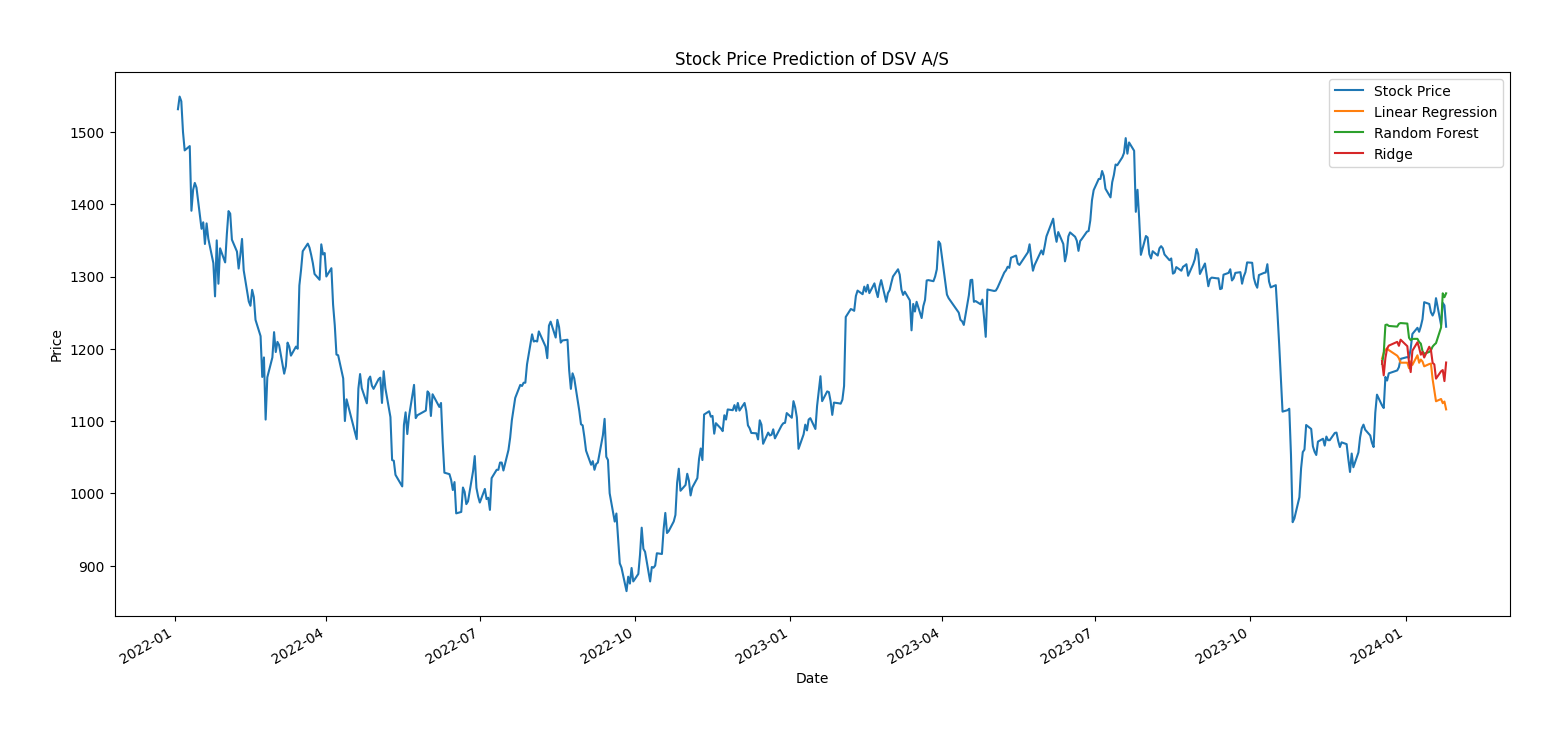
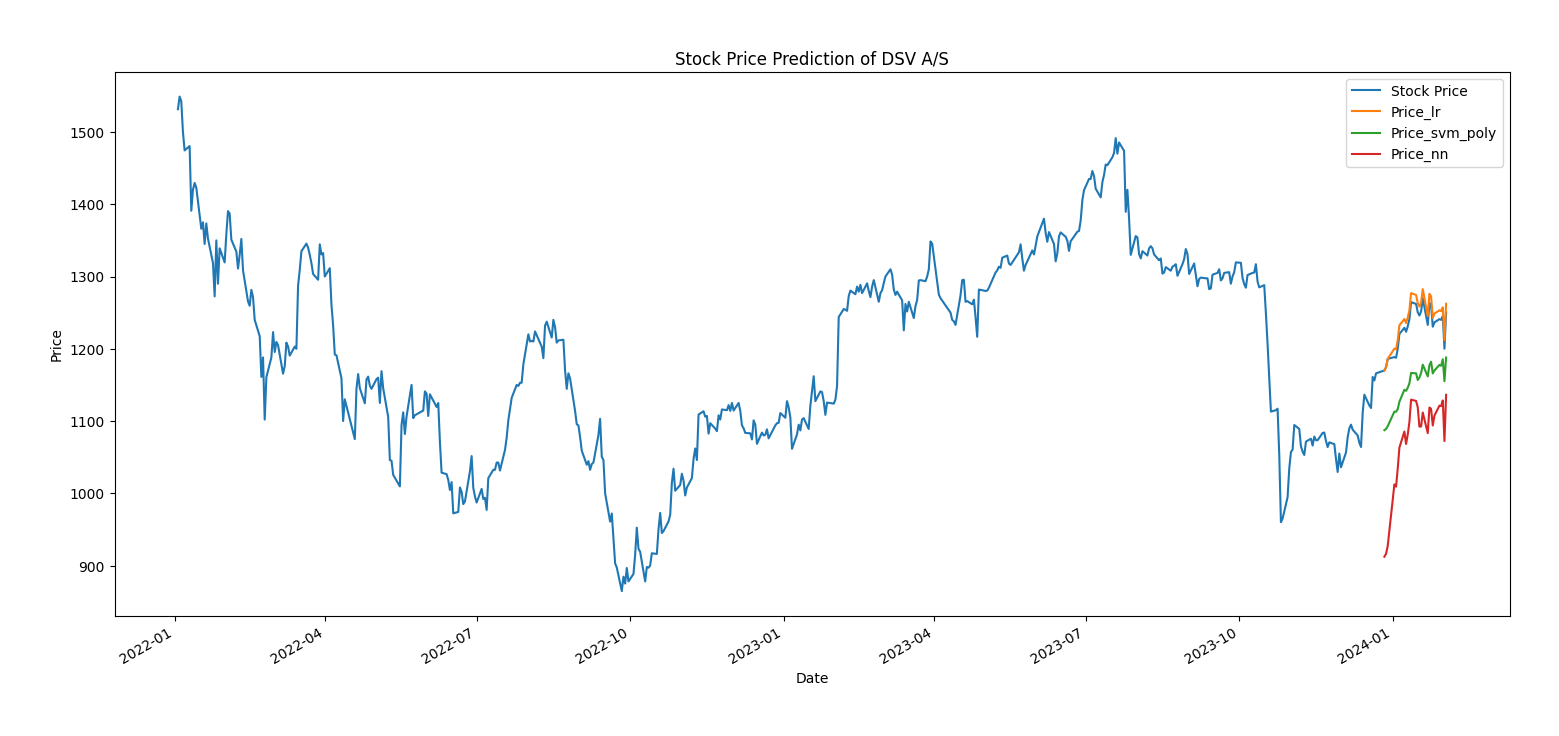
Removed previous generated graphs

diff --git a/ml_builder.py b/ml_builder.py
@@ -11,8 +11,12 @@ from sklearn.neural_network import MLPRegressor
 from sklearn.metrics import mean_absolute_error
 from sklearn.metrics import mean_squared_error
 from sklearn.metrics import r2_score
+import time
 
-
+import stock_data_fetch
+import import_csv_file
+import split_dataset
+import dimension_reduction
 
 def linear_model(traning_dataset, test_dataset, prediction_dataset, stock_df):
     x_training_df = traning_dataset.drop(["Price"], axis=1)
@@ -346,12 +350,12 @@ def neural_network_model(traning_dataset, test_dataset, prediction_dataset, hidd
 def predict_price(traning_dataset, test_dataset, prediction_dataset, stock_df):
     lr_forecast = linear_model(traning_dataset, test_dataset, prediction_dataset, stock_df)
     # print(lr_forecast)
-    # rf_forecast = random_forest_regressor_model(traning_dataset, test_dataset, prediction_dataset, stock_df)
+    rf_forecast = random_forest_regressor_model(traning_dataset, test_dataset, prediction_dataset, stock_df)
     # # print(rf_forecast)
-    # forecast_df = lr_forecast.join(rf_forecast)
-    # rd_forecast = ridge_model(traning_dataset, test_dataset, prediction_dataset, stock_df)
+    forecast_df = lr_forecast.join(rf_forecast)
+    rd_forecast = ridge_model(traning_dataset, test_dataset, prediction_dataset, stock_df)
     # # print(rd_forecast)
-    # forecast_df = forecast_df.join(rd_forecast)
+    forecast_df = forecast_df.join(rd_forecast)
     # print(forecast_df)
     # kernel_list = ["linear"]
     kernel_list = ["poly"]
@@ -367,7 +371,7 @@ def predict_price(traning_dataset, test_dataset, prediction_dataset, stock_df):
     # dt_forecast = decision_tree_model(traning_dataset, test_dataset, prediction_dataset, stock_df)
     # # print(dt_forecast)
     # forecast_df = forecast_df.join(dt_forecast)
-    nn_forecast = neural_network_model(traning_dataset, test_dataset, prediction_dataset, 30, 60, 60, 30, 100, 1, stock_df)
+    nn_forecast = neural_network_model(traning_dataset, test_dataset, prediction_dataset, 45, 60, 60, 45, 100, 1, stock_df)
     # print(nn_forecast)
     forecast_df = forecast_df.join(nn_forecast)
     print(forecast_df)
@@ -424,13 +428,6 @@ def plot_graph(stock_data_df, forecast_data_df):
 
 
 if __name__ == "__main__":
-    import time
-    
-    import stock_data_fetch
-    import import_csv_file
-    import split_dataset
-    import dimension_reduction
-
     start_time = time.time()
     stock_symbols_df = stock_data_fetch.import_stock_symbols('index_symbol_list_single_stock.csv')
     stock_symbols_list = stock_symbols_df['Symbol'].tolist()

diff --git a/dimension_reduction.py b/dimension_reduction.py
@@ -4,6 +4,9 @@ from sklearn.feature_selection import SelectKBest
 from sklearn.feature_selection import r_regression
 from sklearn.decomposition import PCA
 
+import import_csv_file
+import split_dataset
+
 def feature_selection(dimensions, x_traning_data, x_test_data, y_traning_data, y_test_data, prediction_data, dataset_df):
     # Create a SelectKBest object to select features with two best ANOVA F-Values
     selector = SelectKBest(r_regression, k=dimensions)
@@ -84,10 +87,8 @@ def  pca_dataset_transformation(x_traning_data, x_test_data, prediction_data, co
 
     return reduced_traning_dataset, reduced_test_dataset, reduced_prediction_dataset
 
+
 if __name__ == "__main__":
-    import import_csv_file
-    import split_dataset
-    
     stock_data_df = import_csv_file.import_as_df('stock_data_single_v2.csv')
     x_training_data, x_test_data, y_training_data, y_test_data, prediction_data = split_dataset.dataset_train_test_split(stock_data_df, 0.20, 1)
     x_training_dataset, x_test_dataset, x_prediction_dataset = feature_selection(15, x_training_data, x_test_data, y_training_data, y_test_data, prediction_data, stock_data_df)

diff --git a/stock_analyzer.py b/stock_analyzer.py
@@ -1,4 +1,5 @@
 import pandas as pd
+import time
 
 import stock_data_fetch
 import import_csv_file
@@ -40,14 +41,11 @@ def import_stock_symbols(csv_file):
 
 
 if __name__ == "__main__":
-    import time
-    
     start_time = time.time()
     # Import stock symbols from a CSV file
     stock_symbols_df = import_stock_symbols('index_symbol_list_multiple_stocks.csv')
     stock_symbols_list = stock_symbols_df['Symbol'].tolist()
     print(stock_symbols_df)
-
     # Fetch stock data for the imported stock symbols
     for index, row in stock_symbols_df.iterrows():
         stock = row["Symbol"]

diff --git a/split_dataset.py b/split_dataset.py
@@ -2,6 +2,7 @@ from sklearn.model_selection import train_test_split
 import numpy as np
 import math
 
+import import_csv_file
 import data_scalers
 
 def dataset_train_test_split(dataset_dataframe, ts, rs):
@@ -36,7 +37,5 @@ def dataset_train_test_split(dataset_dataframe, ts, rs):
 
 
 if __name__ == "__main__":
-    import import_csv_file
-
     stock_data_df = import_csv_file.import_as_df('stock_data_single_v2.csv')
     x_training_data, x_test_data, y_training_data, y_test_data, prediction_data = dataset_train_test_split(stock_data_df, 0.20, 1)

diff --git a/import_csv_file.py b/import_csv_file.py
@@ -30,3 +30,4 @@ def import_as_df(csv_file):
 
     except FileNotFoundError:
         raise FileNotFoundError(f"CSV file '{csv_file}' does not exist.")
+    
